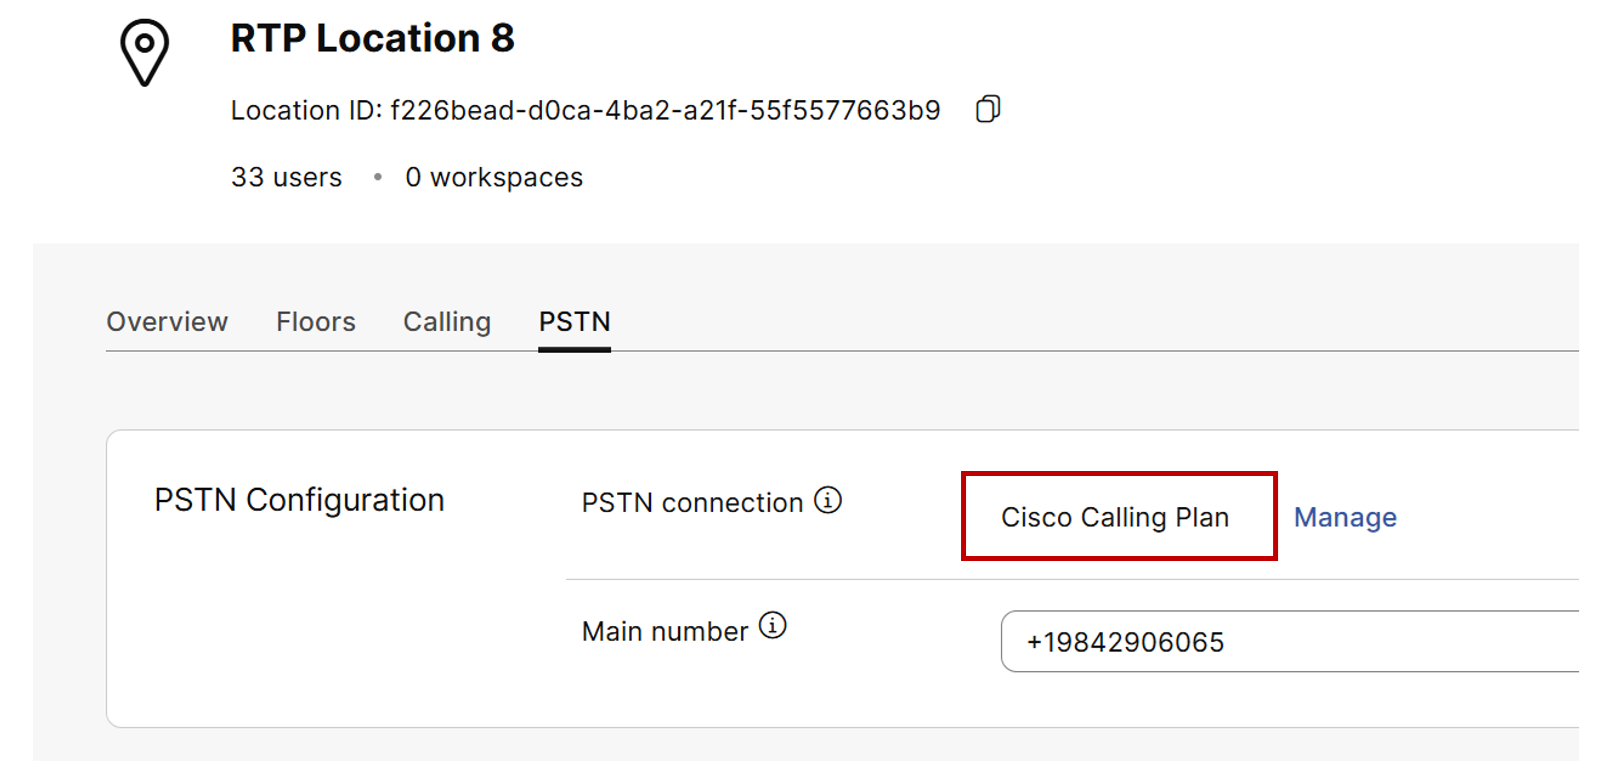
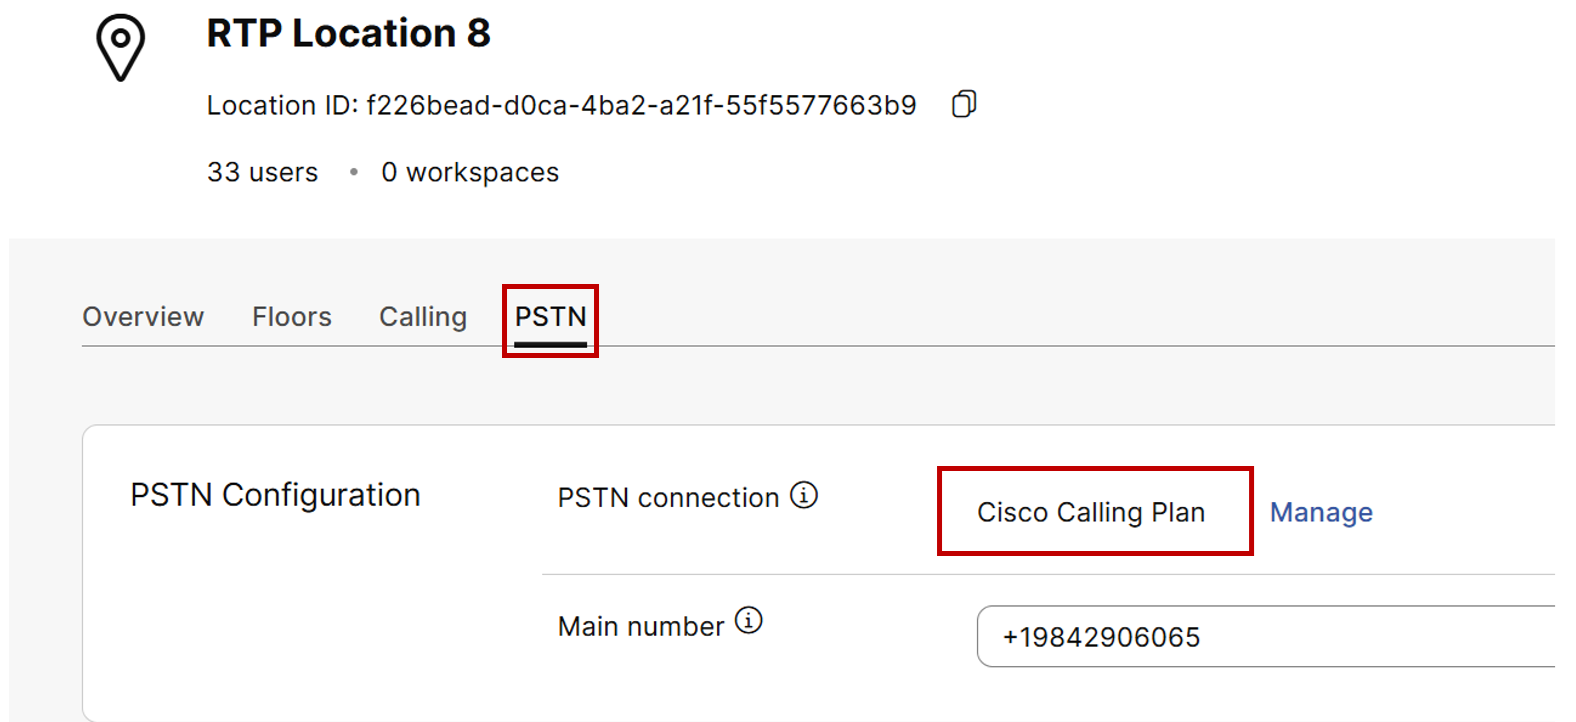
testall

diff --git a/docs/Excercise1.md b/docs/Excercise1.md
@@ -60,9 +60,9 @@ After creating the inbound flow and presenting calls to a test agent, participan
 
       ![Nav](./assets/2310_Excercise1_6.png){ width="700" }
 
-- Select the discovered location and click on the **PSTN** connection details. 
+- Select the discovered location. 
 
-- In **PSTN Configuraton** section PSTN connection identified is **Cisco Calling Plan**
+- In the **PSTN tab**, under the **PSTN Configuration** section, the identified connection is **Cisco Calling Plan**.
 
       ![Nav](./assets/2310_Excercise1_7.png){ width="500" }
 
